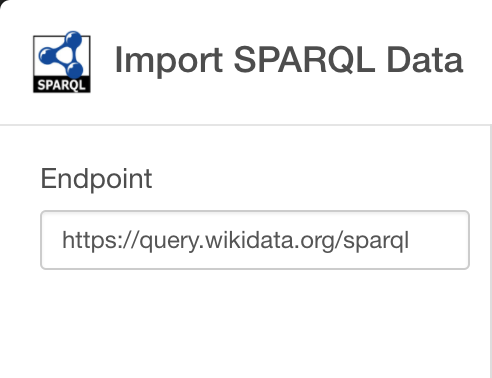
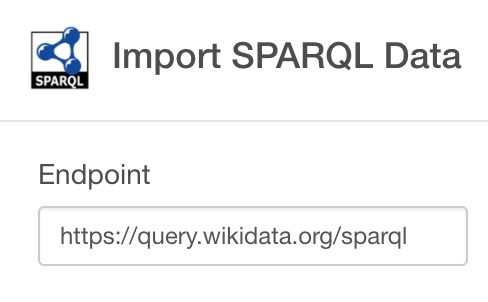
retook screenshots.

diff --git a/import/SPARQL.md b/import/SPARQL.md
@@ -62,6 +62,6 @@ As for SPARQL syntax, please refer [this site](https://www.w3.org/TR/sparql11-ov
 
 ## 2. Import
 
-Once you concirmed the query result, click `Import` button to import the data as a data frame in Exploratory.
+Once you confirmed the query result, click `Import` button to import the data as a data frame in Exploratory.
 ![](images/SPARQL_import.png)
 
